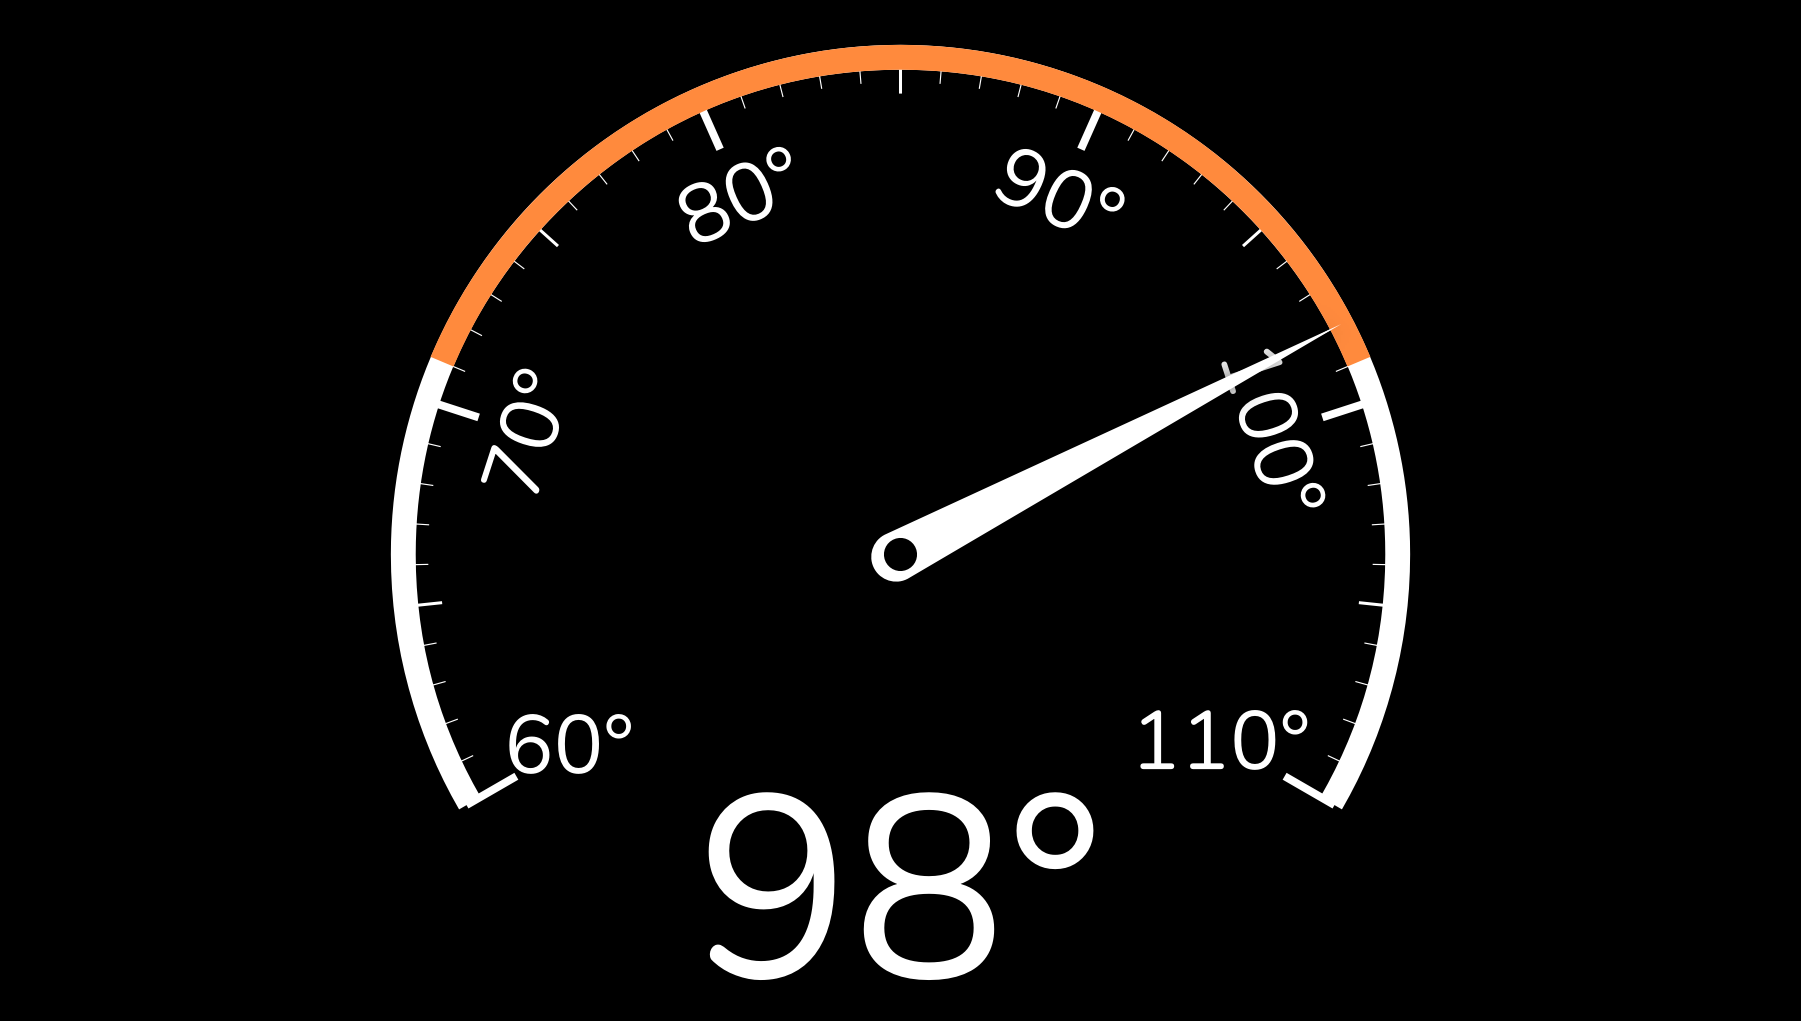
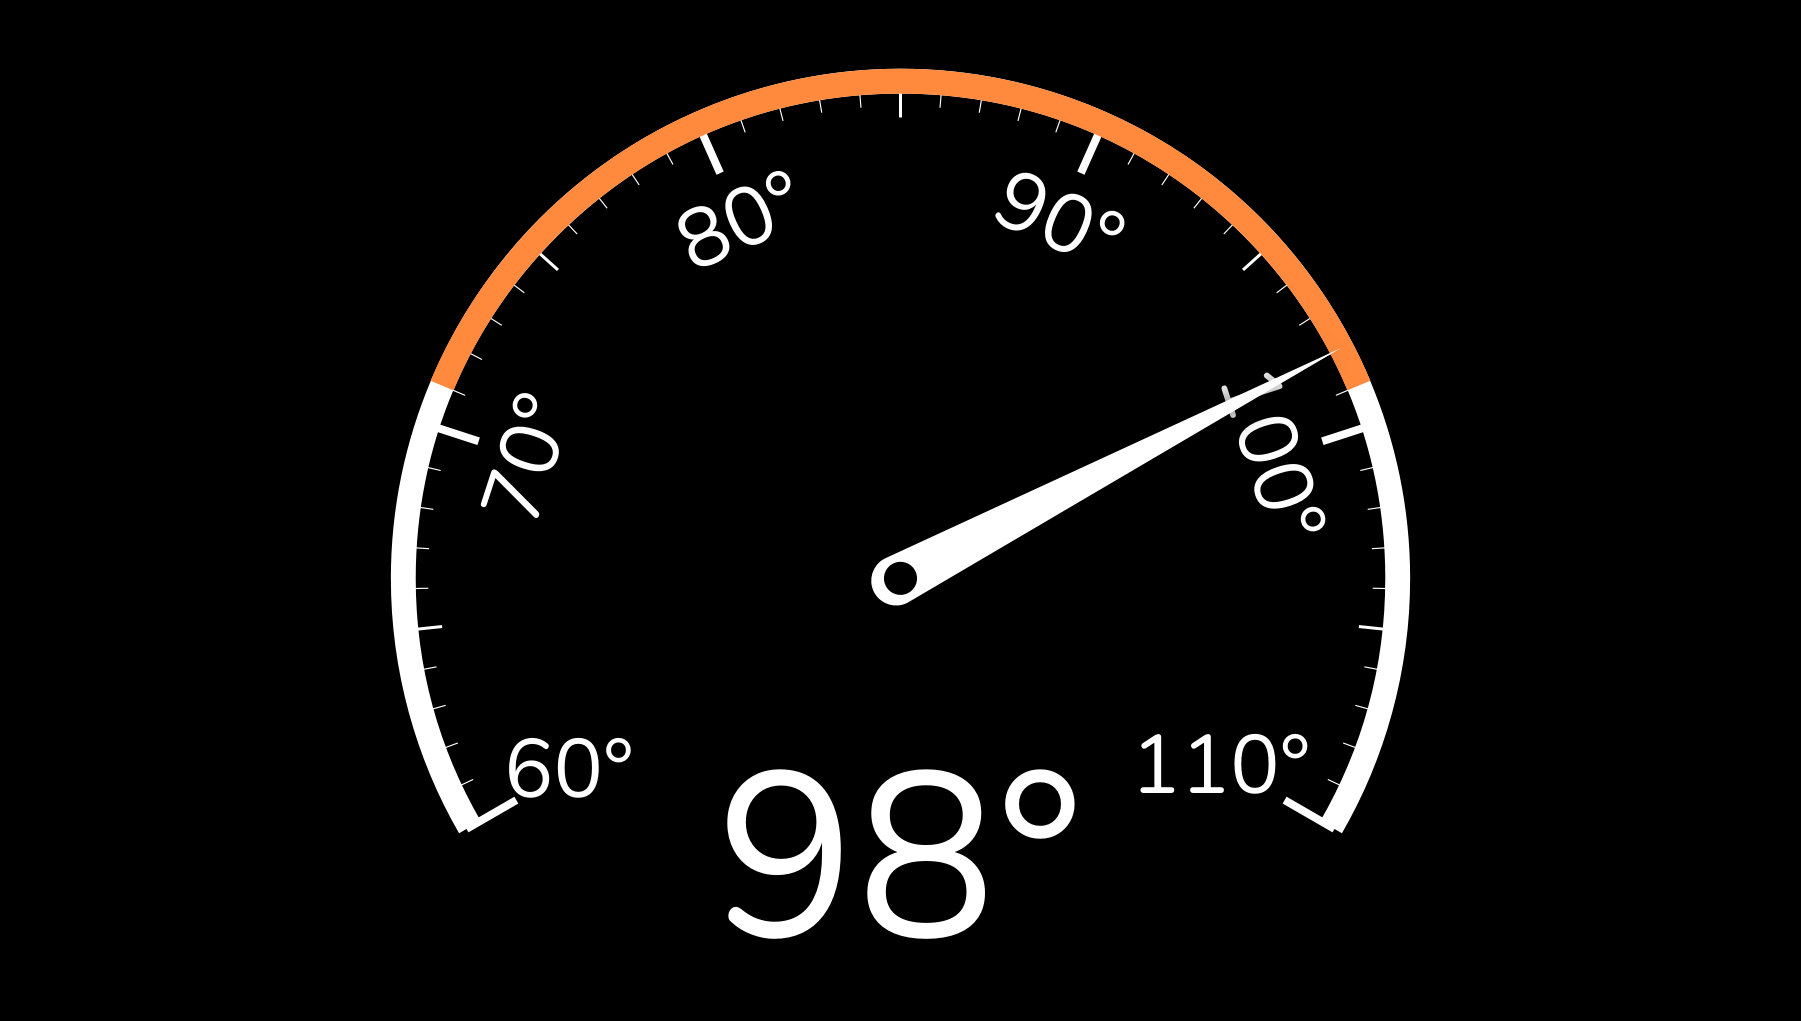
fix(UI.Gauge): a below value label keeps a gap from the dial's parts
Since 74eb4e7 a Below value label stands on the panel's bottom edge and
grows upward until it touches the dial. The fit only rejected an overlap,
so the label grew until its glyphs stood against the end tick labels
beside it. The trial outline now includes a margin of value-padding, so
the label stops short of the arc, ticks and tick labels. The hub limit
from c3ae184 stays. Regenerate the three preset references that change.

diff --git a/src/LevityDash/lib/ui/frontends/PySide/Modules/Displays/Gauge.py b/src/LevityDash/lib/ui/frontends/PySide/Modules/Displays/Gauge.py
@@ -2371,6 +2371,7 @@ class GaugeValueLabel(GaugeLabel):
 				bounds = gauge.rect()
 
 			reserve = self._unit_reserve()
+			gap = self.parent.value_padding_px
 
 			# A bottom value hangs under the needle's pivot. The needle is not
 			# part of gauge_path here (only an Inline value dodges it), so
@@ -2394,6 +2395,11 @@ class GaugeValueLabel(GaugeLabel):
 					candidate.addRect(QRectF(rect.left(), rect.bottom(), rect.width(), reserve))
 				if not bounds.contains(candidate.boundingRect()):
 					return True
+				# Clear of the dial's parts by a gap, not merely not touching:
+				# without one, a bottom value grew until its edge stood against
+				# the end tick labels beside it.
+				if gap:
+					candidate = candidate.united(outline_path(candidate, gap * 2))
 				return candidate.intersects(gauge_path)
 
 			# The floor is relative: a bare 0.2 is in glyph-path units, so it
